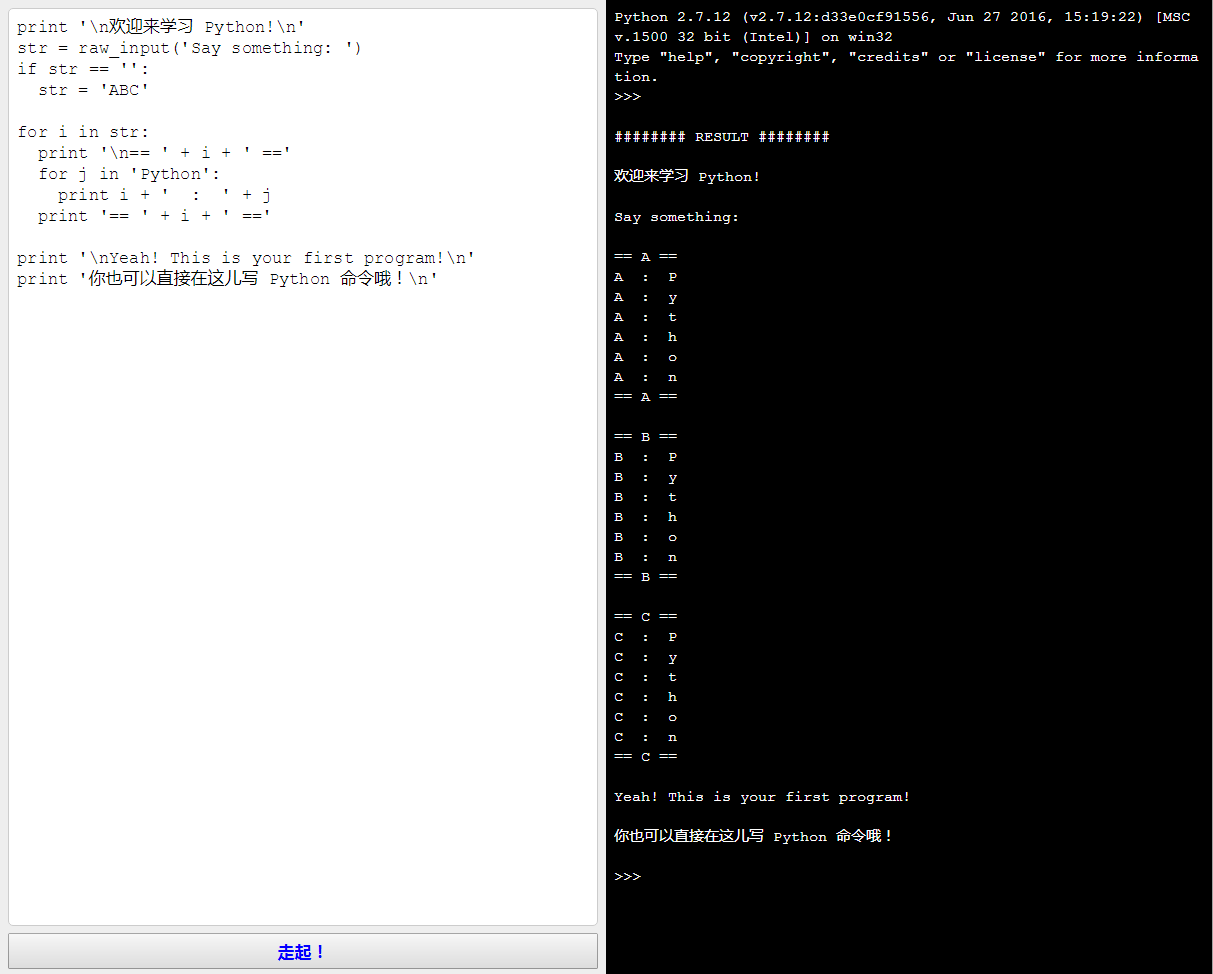
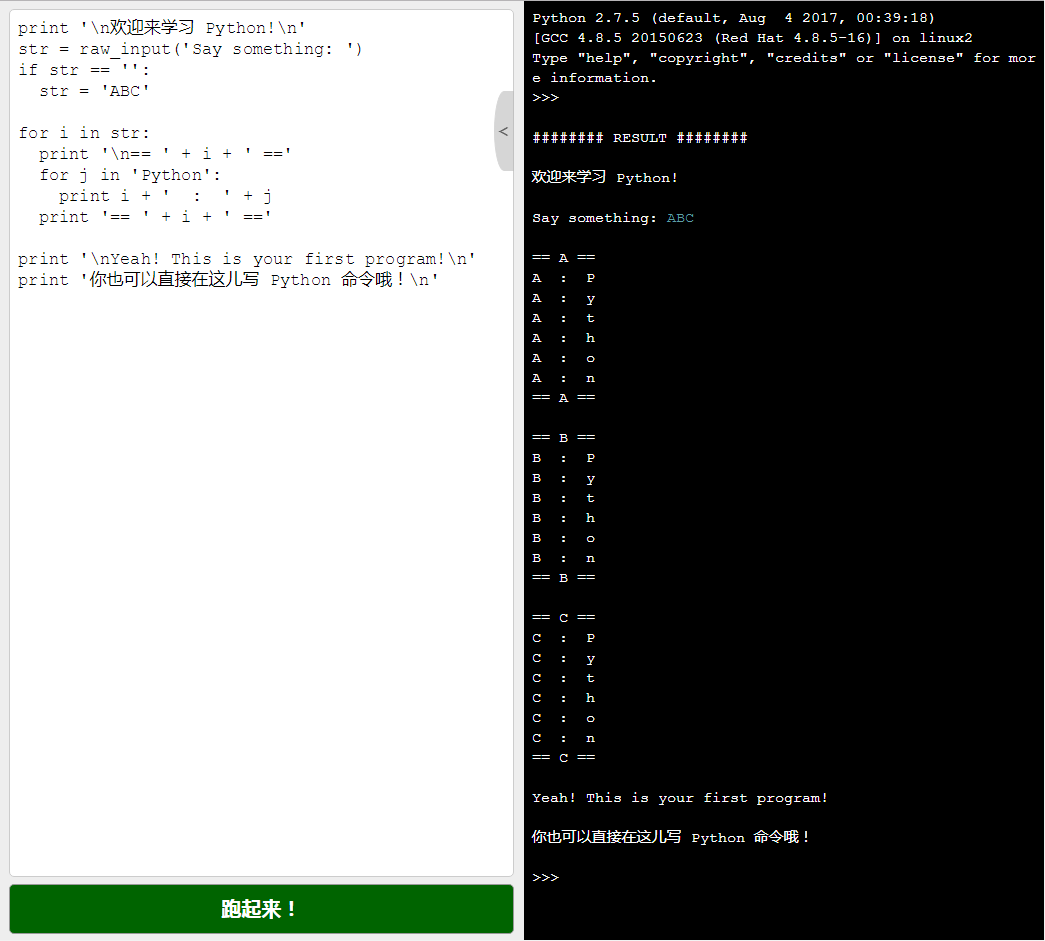
'enhance'

diff --git a/public/index.css b/public/index.css
@@ -22,11 +22,31 @@ body {
     background-color: #eee;
     height: 100%;
     flex: 1;
-    padding: 8px;
+    padding: 8px 10px;
+    position: relative;
+}
+
+#program.hidden {
+    flex: 0;
+    background-color: black;
+    border-right: 2px solid #333;
+    padding-left: 14px;
+}
+
+#program.hidden textarea, #program.hidden button {
+    display: none;
+}
+
+#program.hidden #floating_btn {
+    right: 3px;
+    background-color: #fff;
+    border-color: #fff;
+    border-radius: 0 50% 50% 0;
+    opacity: 0.8;
 }
 
 #program textarea {
-    height: calc(100% - 40px);
+    height: calc(100% - 55px);
     width: 100%;
     resize: none;
     border: 1px solid #ccc;
@@ -39,11 +59,49 @@ body {
 
 #program button {
     width: 100%;
-    height: 36px;
+    height: 50px;
+    line-height: 50px;
     margin-top: 2px;
-    font-size: 17px;
+    font-size: 20px;
     font-weight: bold;
-    color: blue;
+    color: #fff;
+    background-color: darkgreen;
+    border: 1px solid #999;
+    border-radius: 5px;
+}
+
+#program button:hover {
+    cursor: pointer;
+    background-color: green;
+}
+
+#floating_btn {
+    position: absolute;
+    height: 80px;
+    width: 20px;
+    border: 1px solid #bbb;
+    background-color: #bbb;
+    top: 90px;
+    right: 8px;
+    line-height: 80px;
+    text-align: center;
+    font-weight: bold;
+    color: #000;
+    margin-right: 2px;
+    opacity: 0.6;
+    border-radius: 50% 0 0 50%;
+}
+
+#program:not(.hidden) #floating_btn .gt {
+    display: none;
+}
+
+#program.hidden #floating_btn .lt {
+    display: none;
+}
+
+#floating_btn:hover {
+    cursor: pointer;
 }
 
 #terminal {

diff --git a/index.js b/index.js
@@ -34,6 +34,7 @@ function PythonDialog () {
             ctl.commands = [];
         } else {
             ctl.childProcess.stdin.write(ctl.commands.shift()+'\n');
+            ctl._runCommands++;
         }
     });
     this.childProcess.on('close', function (code) {
@@ -43,15 +44,23 @@ function PythonDialog () {
     this.getReply = function () {
         var rpl = ctl.reply;
         ctl.reply = '';
+        var lineNo = ctl._runCommands;
+        if(ctl.commands.length === 0) {
+            ctl._runCommands = -1;
+        }
+        if(lineNo !== -1) {
+            rpl = rpl.replace(new RegExp('File "<stdin>", line [0-9]+', 'g'), 'File "<stdin>", line ' + lineNo);
+        }
         return rpl.replace(new RegExp(' ', 'g'), '&nbsp;').replace(new RegExp('<', 'g'), '&lt;').replace(new RegExp('>', 'g'), '&gt;');
-        // return rpl.replace(new RegExp(' ', 'g'), '&nbsp;').replace(new RegExp('<stdin>', 'g'), '&lt;stdin&gt;');
     };
 
+    this._runCommands = -1; // total commands has been run (current program), for error report usage..., minus the first empty command
     this.run = function (pg) {
         if(pg && pg.length) {
             ctl.commands = [''].concat(pg.split('\n'));
             if(ctl.commands.length) {
                 ctl.childProcess.stdin.write(ctl.commands.shift() + '\n');
+                ctl._runCommands++;
             }
         }
     };

diff --git a/public/index.html b/public/index.html
@@ -11,7 +11,11 @@
 <body>
 <aside id="program">
     <textarea id="txt_prg"></textarea>
-    <button id="btn_run">走起！</button>
+    <button id="btn_run">跑起来！</button>
+    <div id="floating_btn">
+        <span class="lt">&lt;</span>
+        <span class="gt">&gt;</span>
+    </div>
 </aside>
 <ul id="terminal">
 </ul>
@@ -125,6 +129,10 @@
             if(pg && pg.trim().length > 0) {
                 socket.emit('program', pg);
             }
+        });
+
+        $('#floating_btn').click(function () {
+            $('#program').toggleClass('hidden');
         });
 
         $.ajax({
